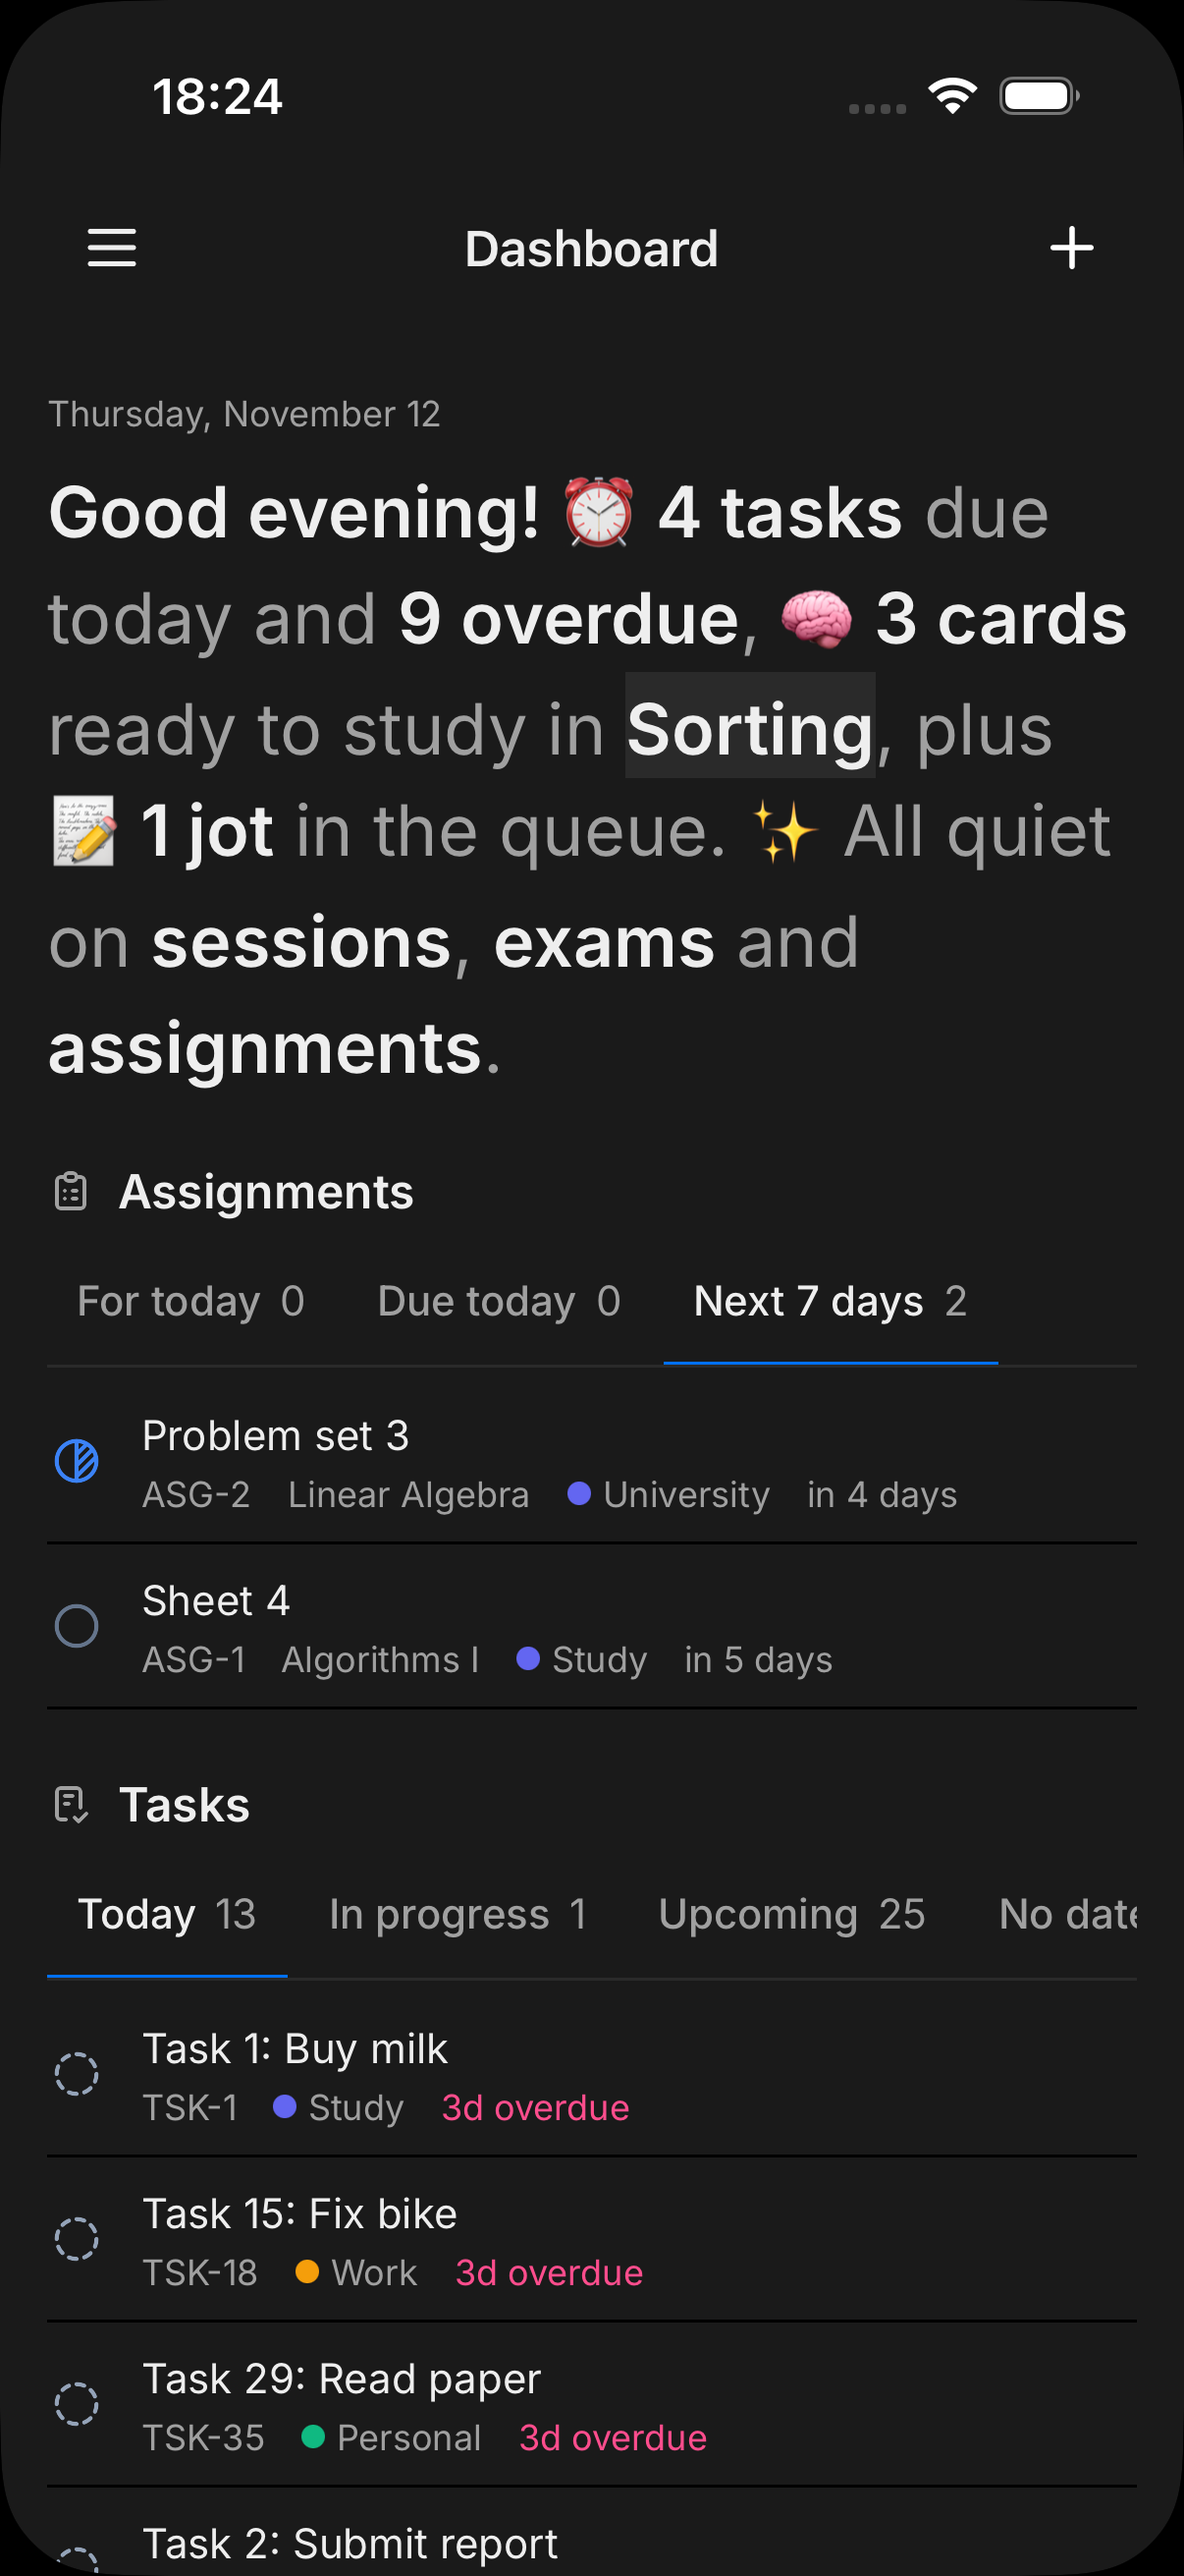
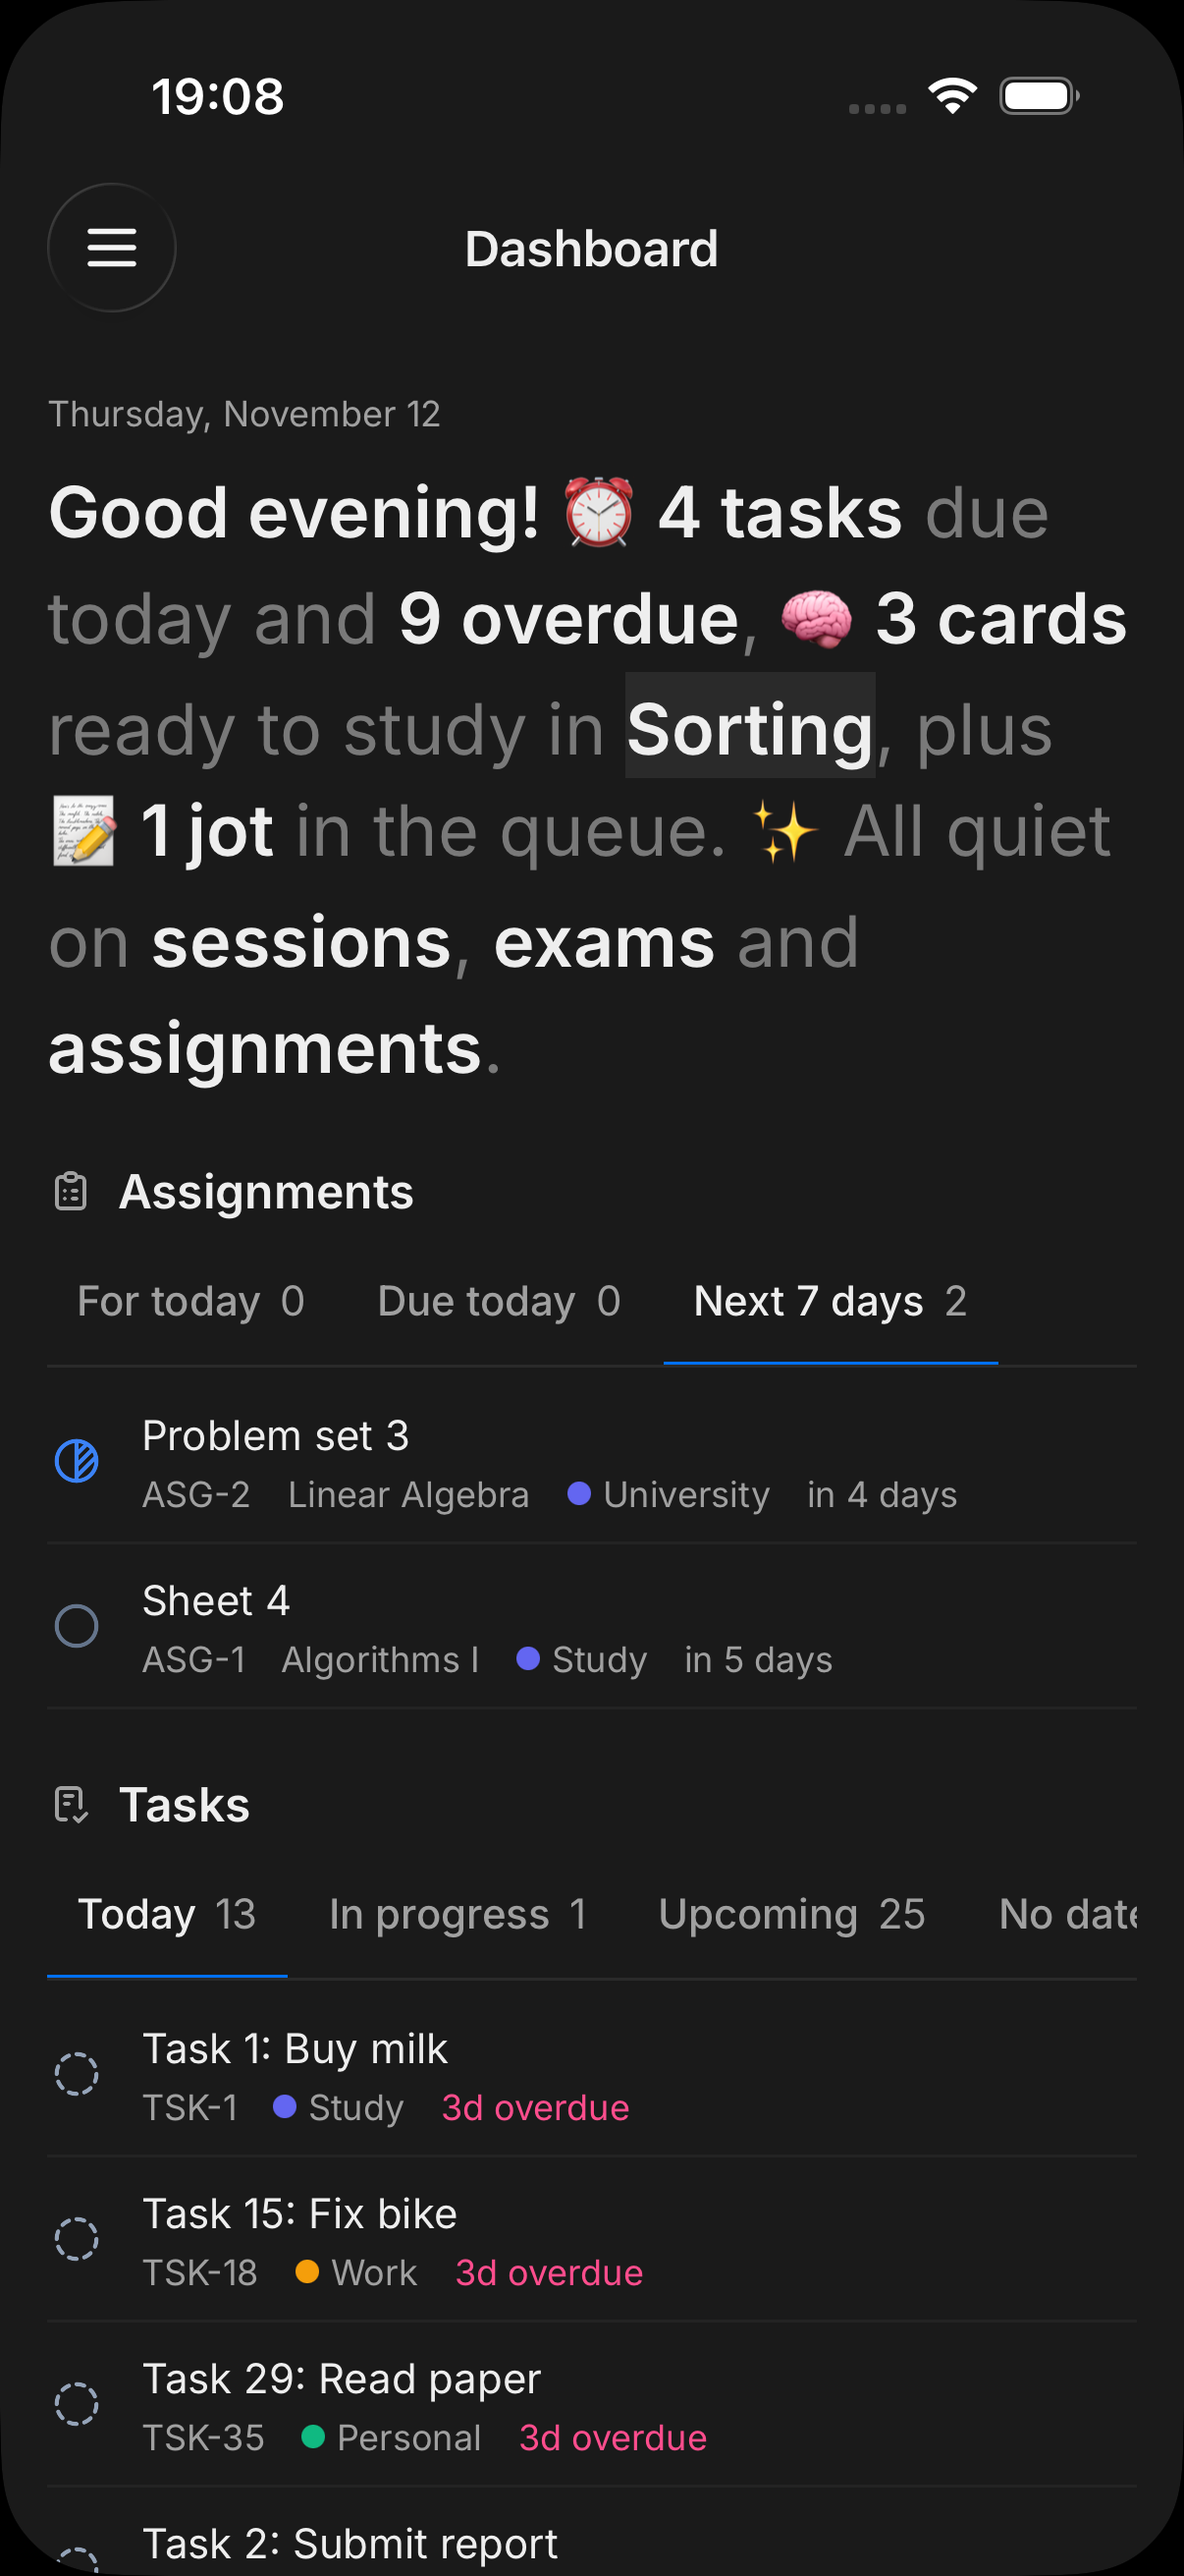
fix(mobile): Filter, Display and Today are secondary buttons like on the desktop

diff --git a/apps/mobile/src/ui/list-header.test.tsx b/apps/mobile/src/ui/list-header.test.tsx
@@ -1,0 +1,23 @@
+import { fireEvent } from "expo-router/testing-library";
+import { useState } from "react";
+import { renderScreens, testData } from "../test/render.tsx";
+import { ListHeader, type ListPanel } from "./ListBar.tsx";
+
+function Header() {
+  const [panel, setPanel] = useState<ListPanel>(null);
+  return <ListHeader title="Tasks" count={3} panel={panel} onPanel={setPanel} />;
+}
+
+describe("a list's header", () => {
+  // The desktop's Filter and Display are secondary buttons, with their background, whether
+  // their popover is open or not. They had turned into ghost buttons on the phone.
+  it("shows Filter and Display as secondary buttons, open or closed", async () => {
+    const screen = await renderScreens({ index: () => <Header /> }, testData());
+    const filled = (name: string) =>
+      String(screen.getByRole("button", { name }).props.className).includes("bg-accent");
+    expect(await screen.findByRole("button", { name: "Filter" })).toBeTruthy();
+    expect([filled("Filter"), filled("Display")]).toEqual([true, true]);
+    await fireEvent.press(screen.getByRole("button", { name: "Filter" }));
+    expect([filled("Filter"), filled("Display")]).toEqual([true, true]);
+  });
+});

diff --git a/apps/mobile/src/ui/ListBar.tsx b/apps/mobile/src/ui/ListBar.tsx
@@ -74,14 +74,14 @@ export function ListHeader({
       </View>
       <Button
         label="Filter"
-        variant={panel === "filter" ? "secondary" : "ghost"}
+        variant="secondary"
         size="sm"
         icon={<IconFilter size={16} color={theme.colors.foreground} />}
         onPress={() => toggle("filter")}
       />
       <Button
         label="Display"
-        variant={panel === "display" ? "secondary" : "ghost"}
+        variant="secondary"
         size="sm"
         icon={<IconAdjustmentsHorizontal size={16} color={theme.colors.foreground} />}
         onPress={() => toggle("display")}

diff --git a/apps/mobile/src/screens/CalendarScreen.tsx b/apps/mobile/src/screens/CalendarScreen.tsx
@@ -311,7 +311,7 @@ export function CalendarScreen({
             icon={<IconChevronRight size={20} color={theme.colors.foreground} />}
             onPress={() => step(1)}
           />
-          <Button label="Today" variant="ghost" size="sm" onPress={() => setAnchor(today)} />
+          <Button label="Today" variant="secondary" size="sm" onPress={() => setAnchor(today)} />
         </View>
       ) : null}
     </>

diff --git a/IMPLEMENTATION_STATE.md b/IMPLEMENTATION_STATE.md
@@ -138,7 +138,7 @@ Open, named by the user (2026-11-12, late):
 - [ ] **Tap anywhere the editor could be to start typing.** On markdown pages, a tap in the editor's area puts the cursor on the next free line at the end: the whole page for notes and jots, only the editor's region where an editor is embedded (task, assignment and other item pages). The user should never have to find the end of the content.
 - [ ] **Tasks and assignments never load their editor on the phone.** Tapping anywhere on their page does not enter an editor (the empty area under the property chips). Fix together with the item above.
 - [ ] **Module lists still boxed.** The Notes list (sort chips Last edited, Title, ID over a rounded card of rows; seen in the user's screenshot) and the other module lists in `PageLists.tsx` still sit in one big box with full blue selected chips. Make them flat like Tasks and Assignments, with the desktop's quieter controls.
-- [ ] **Secondary buttons became ghost buttons.** Buttons that are `secondary` on the desktop must stay `secondary` (with their background) on the phone. Example: Filter and Display in `ListHeader` show as ghost with no background. Audit every button's variant against its desktop counterpart.
+- [x] (Filter, Display and the calendar's Today now secondary; the other ghost buttons were checked against the desktop, which has them ghost too: Cancel, Back, Forgot Password, Change Server, Remove Access, Edit Combined Version) **Secondary buttons became ghost buttons.** Buttons that are `secondary` on the desktop must stay `secondary` (with their background) on the phone. Example: Filter and Display in `ListHeader` show as ghost with no background. Audit every button's variant against its desktop counterpart.
 - [x] **No + on the Dashboard.** Remove the New Task button from the Dashboard's bar: the Dashboard is a general page, a + that makes a task is misleading.
 
 Open, own findings (2026-11-10):
